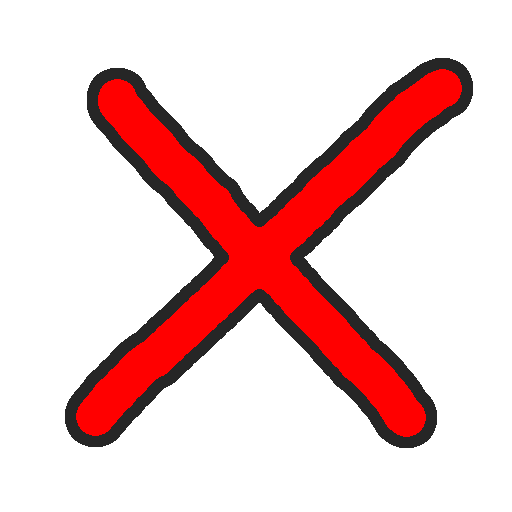
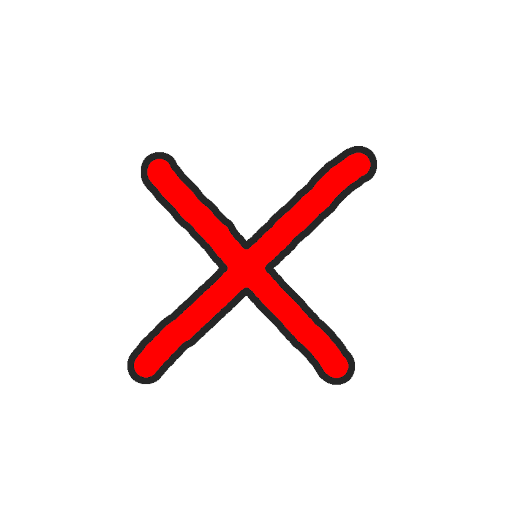
working menu on Settings

Changed region(s): [[0.125, 0.0938, 0.9375, 0.875]]

diff --git a/DVBTTelevizor.MAUI/Menu.xaml b/DVBTTelevizor.MAUI/Menu.xaml
@@ -7,7 +7,19 @@
              Margin="0,0,0,0"
              Padding="0,0,0,0">
 
-    <Frame x:Name="MenuFrame" IsVisible="{Binding MenuVisible}" BackgroundColor="#555555" CornerRadius="25">
+    <ContentView.Resources>
+        <ResourceDictionary>
+            <Style x:Key="ListLabelStyle" TargetType="Label">
+                <Setter Property="TextColor" Value="White"/>
+                <Setter Property="VerticalTextAlignment" Value="Center"/>
+                <Setter Property="HorizontalTextAlignment" Value="End"/>
+                <Setter Property="HorizontalOptions" Value="End"/>
+                <Setter Property="Margin" Value="20,0,0,0"/>
+            </Style>
+        </ResourceDictionary>
+    </ContentView.Resources>
+
+        <Frame x:Name="MenuFrame" IsVisible="{Binding MenuVisible}" BackgroundColor="#555555" CornerRadius="25">
 
         <StackLayout x:Name="MenuStackLayout" BackgroundColor="Transparent" HorizontalOptions="FillAndExpand" VerticalOptions="FillAndExpand">
 

diff --git a/DVBTTelevizor.MAUI/Pages/MainPage.xaml b/DVBTTelevizor.MAUI/Pages/MainPage.xaml
@@ -159,14 +159,6 @@
                 <Setter Property="LineBreakMode" Value="NoWrap"/>
             </Style>
 
-            <Style x:Key="ListLabelStyle" TargetType="Label">
-                <Setter Property="TextColor" Value="White"/>
-                <Setter Property="VerticalTextAlignment" Value="Center"/>
-                <Setter Property="HorizontalTextAlignment" Value="End"/>
-                <Setter Property="HorizontalOptions" Value="End"/>
-                <Setter Property="Margin" Value="20,0,0,0"/>
-            </Style>
-
         </ResourceDictionary>
     </ContentPage.Resources>
 

diff --git a/DVBTTelevizor.MAUI/Pages/SettingsPage.xaml.cs b/DVBTTelevizor.MAUI/Pages/SettingsPage.xaml.cs
@@ -184,10 +184,10 @@ public partial class SettingsPage : ContentPage, IOnKeyDown
 
         var channels = _configuration.GetChannels();
 
-        _menuItems.Add(MainMenu.CreateMenuItem("menuConfirm", "Confirm delete all channels".Translated() + $" ({channels.Count})", "confirm.png"));
-        _menuItems.Add(MainMenu.CreateMenuItem("menuCancel", "Cancel".Translated(), "confirm.png"));
+        _menuItems.Add(MainMenu.CreateMenuItem("menuConfirm", "Delete all channels".Translated() + $" ({channels.Count})", "confirm.png"));
+        _menuItems.Add(MainMenu.CreateMenuItem("menuCancel", "Cancel".Translated(), "cancel.png"));
 
-        MainMenu.UpdateMenu(_menuItems);
+        MainMenu.UpdateMenu("Confirmatiom".Translated(), _menuItems);
     }
 
     private async void Menu_Tapped(string menuId)
@@ -199,10 +199,12 @@ public partial class SettingsPage : ContentPage, IOnKeyDown
         switch (menuId)
         {
             case "menuConfirm":
+                _configuration.SaveChannels(new ObservableCollection<Channel>());
+                WeakReferenceMessenger.Default.Send(new ChannelsChangedMessage(String.Empty));
+                WeakReferenceMessenger.Default.Send(new  ToastMessage("All existing channels were deleted".Translated()));
                 break;
             case "menuCancel":
                 break;
-
         }
     }
 
@@ -274,27 +276,8 @@ public partial class SettingsPage : ContentPage, IOnKeyDown
 
     private async void ClearChannelsButton_Clicked(object sender, EventArgs e)
     {
+        _loggingService.Info("ClearChannelsButton_Clicked");
+
         DeleteChannelsMenu();
-
-        /*
-        _loggingService.Info("Clearing channels");
-
-        var channels = _configuration.GetChannels();
-
-        if (channels.Count == 0)
-        {
-            await _dialogService.Information("No channel found".Translated());
-            return;
-        }
-
-        if (!await _dialogService.Confirm("Are you sure to delete all channels ({0})?".Translated(channels.Count.ToString()),"Confirm".Translated(),"Yes".Translated(), "No".Translated()))
-        {
-            return;
-        }
-
-        _configuration.SaveChannels(new ObservableCollection<Channel>());
-
-        WeakReferenceMessenger.Default.Send(new ChannelsChangedMessage(String.Empty));
-        */
     }
 }

diff --git a/DVBTTelevizor.MAUI/Pages/MainPage.xaml.cs b/DVBTTelevizor.MAUI/Pages/MainPage.xaml.cs
@@ -1778,7 +1778,7 @@ namespace DVBTTelevizor.MAUI
                 _audioMenuItems.Add(MainMenu.CreateMenuItem("menuBack", "Back".Translated(), "back.png"));
                 _audioMenuItems.Add(MainMenu.CreateMenuItem("menuClose", "Close".Translated(), "close.png"));
 
-                MainMenu.UpdateMenu(_audioMenuItems);
+                MainMenu.UpdateMenu("Audio menu".Translated(), _audioMenuItems);
 
             }
             catch (Exception ex)
@@ -1822,7 +1822,7 @@ namespace DVBTTelevizor.MAUI
                 _subtitleMenuItems.Add(MainMenu.CreateMenuItem("menuBack", "Back".Translated(), "back.png"));
                 _subtitleMenuItems.Add(MainMenu.CreateMenuItem("menuClose", "Close".Translated(), "close.png"));
 
-                MainMenu.UpdateMenu(_subtitleMenuItems);
+                MainMenu.UpdateMenu("Subtitles menu".Translated(), _subtitleMenuItems);
 
             }
             catch (Exception ex)
@@ -1854,7 +1854,7 @@ namespace DVBTTelevizor.MAUI
                 _aspectMenuItems.Add(MainMenu.CreateMenuItem("menuBack", "Back".Translated(), "back.png"));
                 _aspectMenuItems.Add(MainMenu.CreateMenuItem("menuClose", "Close".Translated(), "close.png"));
 
-                MainMenu.UpdateMenu(_aspectMenuItems);
+                MainMenu.UpdateMenu("Aspect menu".Translated(), _aspectMenuItems);
 
             }
             catch (Exception ex)
@@ -1987,7 +1987,7 @@ namespace DVBTTelevizor.MAUI
                     break;
                 case "menuBack":
                     ShowMenu();
-                    MainMenu.UpdateMenu(_menuItems);
+                    MainMenu.UpdateMenu("Menu".Translated(), _menuItems);
                     break;
                 case "menuPlay":
                     await ActionPlay();
@@ -2069,7 +2069,7 @@ namespace DVBTTelevizor.MAUI
 
             // _menuItems.First().Selected = true;
 
-            MainMenu.UpdateMenu(_menuItems);
+            MainMenu.UpdateMenu("Menu".Translated(), _menuItems);
             //FitMenuSize();
         }
 

diff --git a/DVBTTelevizor.MAUI/Menu.xaml.cs b/DVBTTelevizor.MAUI/Menu.xaml.cs
@@ -21,11 +21,11 @@ public partial class Menu : ContentView
         Tapped?.Invoke(this, e);
     }
 
-    public void UpdateMenu(IEnumerable<MenuItem> items = null)
+    public void UpdateMenu(string title, IEnumerable<MenuItem> items = null)
     {
         if (BindingContext is MenuViewModel vm)
         {
-            vm.UpdateMenu(items);
+            vm.UpdateMenu(items, title);
         }
     }
 

diff --git a/DVBTTelevizor.MAUI/MenuViewModel.cs b/DVBTTelevizor.MAUI/MenuViewModel.cs
@@ -42,8 +42,10 @@ namespace DVBTTelevizor.MAUI
             }
         }
 
-        public void UpdateMenu(IEnumerable<MenuItem> items)
+        public void UpdateMenu(IEnumerable<MenuItem> items, string title)
         {
+            Title = title;
+
             MainThread.BeginInvokeOnMainThread(async () =>
             {
                 if (items != null)
